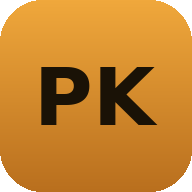
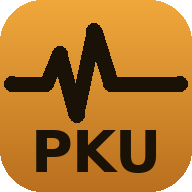
Add files via upload

Changed region(s): [[0.0, 0.0938, 1.0, 0.9062]]

diff --git a/index.html b/index.html
@@ -569,7 +569,7 @@ tbody tr:hover{background:var(--panel-alt);}
   <button class="btn btn-sm" id="themeToggleBtnLogin" style="position:absolute;top:20px;right:20px;z-index:3;">🌙 Mode Gelap</button>
   <div class="login-card">
     <div class="login-brand">
-      <div class="mark">PK</div>
+      <div class="mark"><svg viewBox="0 0 100 100" width="100%" height="100%" xmlns="http://www.w3.org/2000/svg" style="overflow:visible;"><polyline points="6,44 24,44 31,28 40,60 49,16 58,44 94,44" fill="none" stroke="#1A1206" stroke-width="8" stroke-linecap="round" stroke-linejoin="round"/><text x="50" y="90" font-family="'Space Grotesk',sans-serif" font-weight="700" font-size="32" fill="#1A1206" text-anchor="middle">PKU</text></svg></div>
       <div>
         <h1>Peta Kesehatan Unit</h1>
         <span>PLN NUSA DAYA ULPT LUWUK</span>
@@ -596,7 +596,7 @@ tbody tr:hover{background:var(--panel-alt);}
     <button class="mobile-menu-btn" id="mobileMenuBtn" aria-label="Menu">
       <svg viewBox="0 0 24 24" fill="none" stroke="currentColor" stroke-width="2"><line x1="3" y1="6" x2="21" y2="6"/><line x1="3" y1="12" x2="21" y2="12"/><line x1="3" y1="18" x2="21" y2="18"/></svg>
     </button>
-    <div class="mark">PK</div>
+    <div class="mark"><svg viewBox="0 0 100 100" width="100%" height="100%" xmlns="http://www.w3.org/2000/svg" style="overflow:visible;"><polyline points="6,44 24,44 31,28 40,60 49,16 58,44 94,44" fill="none" stroke="#1A1206" stroke-width="8" stroke-linecap="round" stroke-linejoin="round"/><text x="50" y="90" font-family="'Space Grotesk',sans-serif" font-weight="700" font-size="32" fill="#1A1206" text-anchor="middle">PKU</text></svg></div>
     <div class="mt-title">Peta Kesehatan Unit</div>
     <button class="mobile-menu-btn mobile-notif-btn" id="mobileNotifBtn" aria-label="Notifikasi">
       <svg viewBox="0 0 24 24" fill="none" stroke="currentColor" stroke-width="1.8"><path d="M18 8a6 6 0 0 0-12 0c0 7-3 9-3 9h18s-3-2-3-9"/><path d="M13.73 21a2 2 0 0 1-3.46 0"/></svg>
@@ -606,7 +606,7 @@ tbody tr:hover{background:var(--panel-alt);}
   <div class="sidebar-overlay" id="sidebarOverlay"></div>
   <aside class="sidebar" id="sidebarEl">
     <div class="sb-brand">
-      <div class="mark">PK</div>
+      <div class="mark"><svg viewBox="0 0 100 100" width="100%" height="100%" xmlns="http://www.w3.org/2000/svg" style="overflow:visible;"><polyline points="6,44 24,44 31,28 40,60 49,16 58,44 94,44" fill="none" stroke="#1A1206" stroke-width="8" stroke-linecap="round" stroke-linejoin="round"/><text x="50" y="90" font-family="'Space Grotesk',sans-serif" font-weight="700" font-size="32" fill="#1A1206" text-anchor="middle">PKU</text></svg></div>
       <div>
         <h1>Peta Kesehatan Unit</h1>
         <span>PLN Nusa Daya ULPT Luwuk</span>
